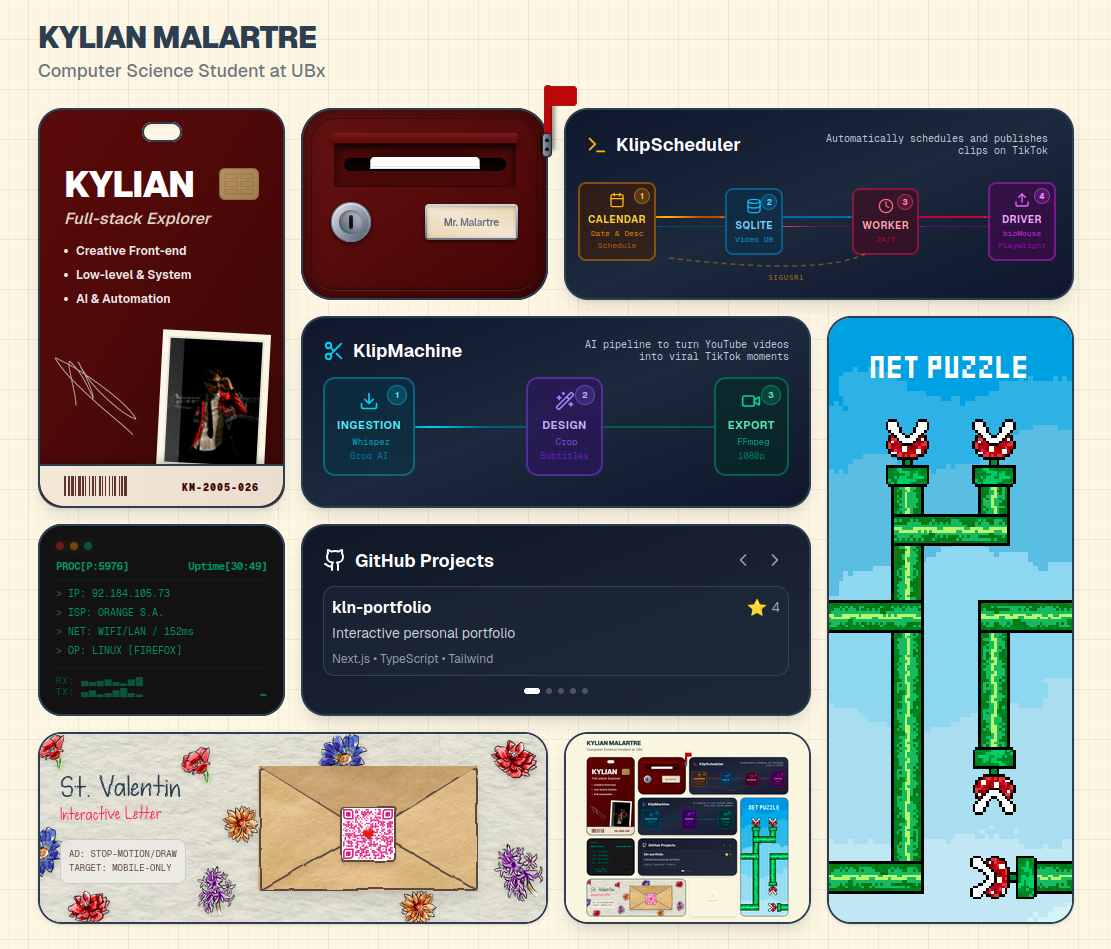
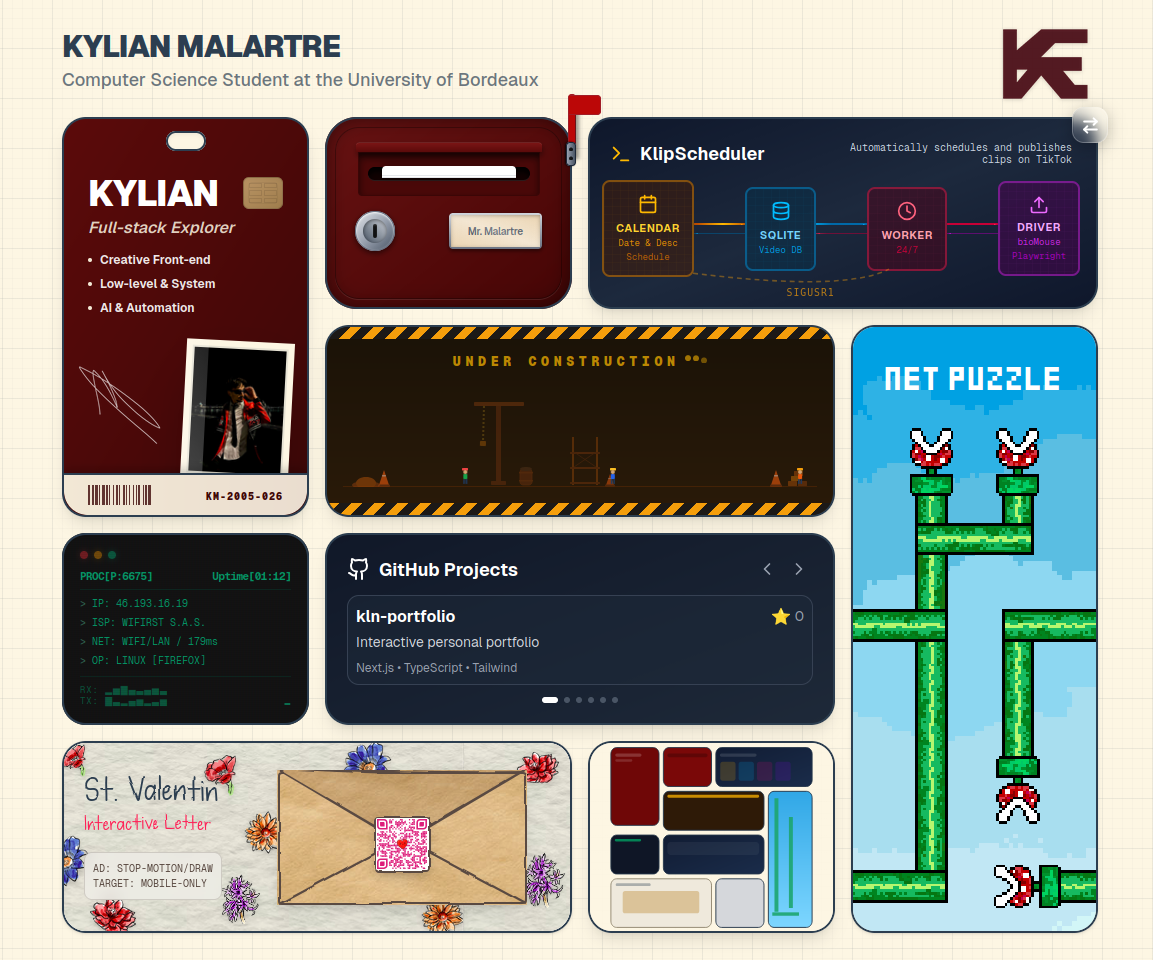
docs: update inception engine technical description in README and the preview.png

diff --git a/README.md b/README.md
@@ -13,7 +13,7 @@ This portfolio utilizes a **Bento Grid** architecture to organize my projects in
 
 ## Features
 
-- **Recursive "Inception" Engine:** A self-referencing card using a handcrafted miniature preview and a live DOM-clone three-phase "dive" animation (Detach, Morph, Reset) driven by `requestAnimationFrame`.
+- **Recursive "Inception" Engine:** A self-referencing card utilizing the native View Transitions API to capture a hardware-accelerated, GPU-level viewport screenshot. This enables a seamless 60fps "dive" animation without VRAM saturation.
 - **Concurrent System Probing:** Real-time environment analysis executing concurrent `Promise.all` tasks to fetch IP/ISP metadata and calculate network latency via `performance.now()` measurements.
 - **Analog Narrative Engine (Valentine):** An integrated visual system combining `feDisplacementMap` SVG filters for "pencil-drawn" textures, `clip-path` polygons for 3D envelope physics, and a custom stop-motion `MiniSticker` component for randomized sprite-toggling.
 - **UX & Performance Optimization:** Implementation of a `ZoomLock` component and viewport constraints to prevent accidental scaling on mobile devices. Uses hydration-safe logic to prevent SSR/CSR mismatches during system data fetching.
